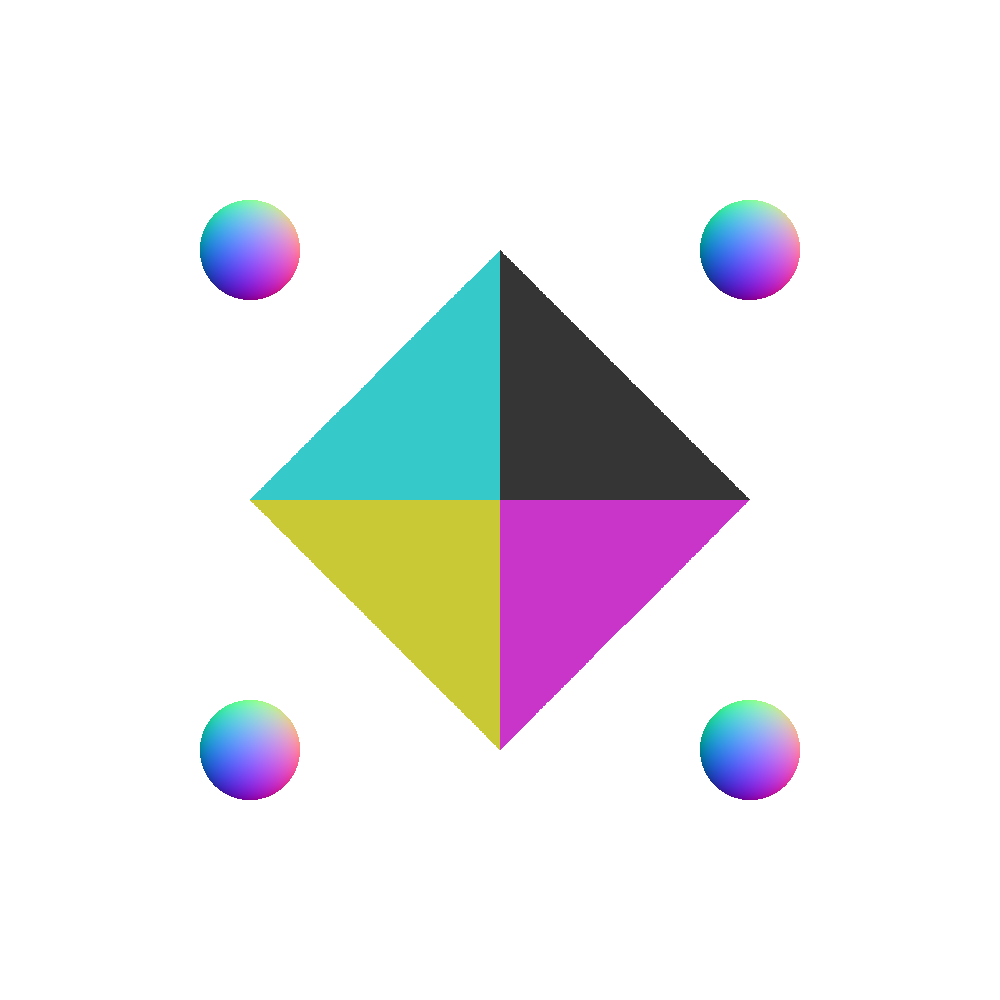
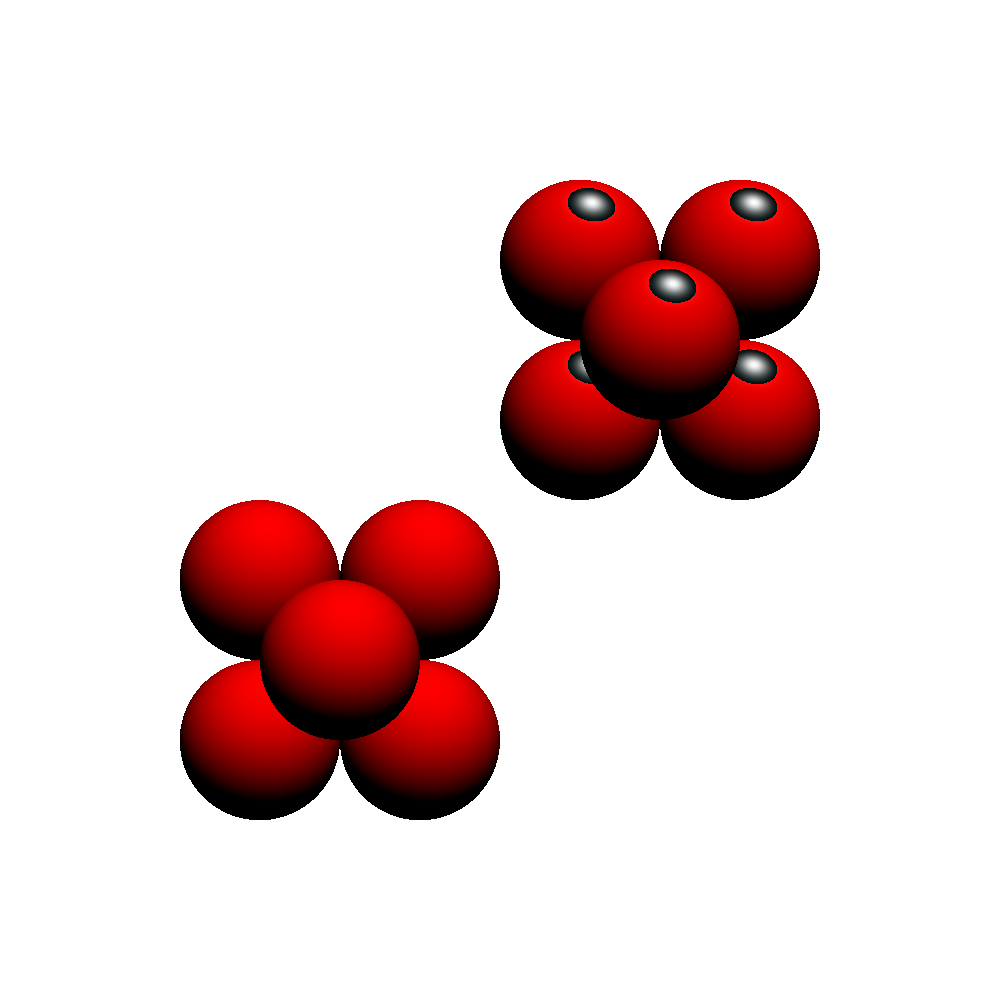
Changes for lambertian and blinn phong

Changed region(s): [[0.155, 0.155, 0.837, 0.837], [0.682, 0.682, 0.806, 0.806], [0.186, 0.186, 0.31, 0.31]]

diff --git a/examples/main.cpp b/examples/main.cpp
@@ -4,7 +4,10 @@
 #include "components/perspectiveCamera.h"
 #include "components/sphere.h"
 #include "components/triangle.h"
-#include "components/shader.h"
+// #include "components/shader.h"
+#include "components/lambert.h"
+#include "components/blinn.h"
+// #include "scene.h"
 
 int main() {
     // point3 origin = {12.3,4.5,1.0};
@@ -23,41 +26,59 @@ int main() {
 
     point3 origin = {0,0,0};
     vec3 view = {0,0,-1};
-    double focallength=1;
+    double focallength = 1;
     Framebuffer fb1(1000,1000);
 
-    point3 center = {-5,-5,-80};
-    point3 center1 = {5,5,-80};
-    point3 center2 = {-5,5,-80};
-    point3 center3 = {5,-5,-80};
+std::vector<std::shared_ptr<Shape>> SphereListLambert;
+std::vector<std::shared_ptr<Shape>> SphereListBlinn;
 
-std::vector<std::shared_ptr<Shape>> SphereList;
-
-SphereList.push_back(std::make_shared<Sphere>(center, 1, color({1.0,0.0,0.0})));
-SphereList.push_back(std::make_shared<Sphere>(center1, 1, color({0.0,1.0,0.0})));
-SphereList.push_back(std::make_shared<Sphere>(center2, 1, color({0.0,0.0,1.0})));
-SphereList.push_back(std::make_shared<Sphere>(center3, 1, color({0.0,0.0,0.0})));
-SphereList.push_back(std::make_shared<Triangle>(point3{0.0,0.0,-75.0}, point3{0,5.0,-80.0}, point3{5.0,0,-80.0},color({1.0,0.0,1.0})));
-SphereList.push_back(std::make_shared<Triangle>(point3{0.0,0.0,-75.0}, point3{0,5.0,-80.0}, point3{-5.0,0,-80.0},color({1.0,0.0,1.0})));
-SphereList.push_back(std::make_shared<Triangle>(point3{0.0,0.0,-75.0}, point3{0,-5.0,-80.0}, point3{5.0,0,-80.0},color({1.0,0.0,1.0})));
-SphereList.push_back(std::make_shared<Triangle>(point3{0.0,0.0,-75.0}, point3{0,-5.0,-80.0}, point3{-5.0,0,-80.0},color({1.0,0.0,1.0})));
+SphereListLambert.push_back(std::make_shared<Sphere>(point3({-6,-6,-100}), 2, color({1.0,0.0,0.0})));
+SphereListLambert.push_back(std::make_shared<Sphere>(point3({-2,-2,-100}), 2, color({0.0,1.0,0.0})));
+SphereListLambert.push_back(std::make_shared<Sphere>(point3({-6,-2,-100}), 2, color({0.0,0.0,1.0})));
+SphereListLambert.push_back(std::make_shared<Sphere>(point3({-2,-6,-100}), 2, color({0.0,0.0,0.0})));
+SphereListLambert.push_back(std::make_shared<Sphere>(point3({-3,-3,-75}), 1.5, color({0.0,0.0,0.0})));
+SphereListBlinn.push_back(std::make_shared<Sphere>(point3({2,2,-100}), 2, color({1.0,0.0,0.0})));
+SphereListBlinn.push_back(std::make_shared<Sphere>(point3({6,6,-100}), 2, color({0.0,1.0,0.0})));
+SphereListBlinn.push_back(std::make_shared<Sphere>(point3({2,6,-100}), 2, color({0.0,0.0,1.0})));
+SphereListBlinn.push_back(std::make_shared<Sphere>(point3({6,2,-100}), 2, color({0.0,0.0,0.0})));
+SphereListBlinn.push_back(std::make_shared<Sphere>(point3({3,3,-75}), 1.5, color({0.0,0.0,0.0})));
+// SphereList.push_back(std::make_shared<Triangle>(point3{0.0,0.0,-75.0}, point3{0,5.0,-70.0}, point3{5.0,0,-70.0},color({0.0,0.0,0.0})));
+// SphereList.push_back(std::make_shared<Triangle>(point3{0.0,0.0,-75.0}, point3{0,5.0,-70.0}, point3{-5.0,0,-70.0},color({0.0,0.0,0.0})));
+// SphereList.push_back(std::make_shared<Triangle>(point3{0.0,0.0,-75.0}, point3{0,-5.0,-70.0}, point3{5.0,0,-70.0},color({0.0,0.0,0.0})));
+// SphereList.push_back(std::make_shared<Triangle>(point3{0.0,0.0,-75.0}, point3{0,-5.0,-70.0}, point3{-5.0,0,-70.0},color({0.0,0.0,0.0})));
 
     PerspectiveCamera pc(origin, view, focallength, fb1.get_width(), fb1.get_height());
 
    
     fb1.clearToColor(color(1.0,1.0,1.0));
     HitStruct hit;
+
+    std::vector<vec3> lightList = {vec3{2.0,10.0,10.0}};
+    Lambert lamb(lightList);
+
+    Blinn blinnPhong(vec3{2.0,10.0,10.0},origin);
+
+    
+
     for(int x = 0; x<fb1.get_width(); ++x) {
         for(int y =0; y<fb1.get_height(); ++y) {
             ray r = pc.generateRay(x,y);
                 double tmin = 1;
                 double tmax = 500.0; 
-           for(auto& iter : SphereList) {
+            for(auto& iter : SphereListLambert) {
                 if(iter->intersect(r,tmin,tmax,hit)==true) {
                     vec3 ray_direction_color = 0.5*(unit_vector(hit.normal) + vec3(1,1,1));
-                    fb1.setPixelColor(x,y,ray_direction_color);
+                    fb1.setPixelColor(x,y,lamb.rayColor(hit));
                     // fb1.setPixelColor(x,y,iter->getColor());
                 }
+            }
+            for(auto& iter : SphereListBlinn) {
+                if(iter->intersect(r,tmin,tmax,hit)==true) {
+                    vec3 ray_direction_color = 0.5*(unit_vector(hit.normal) + vec3(1,1,1));
+                    fb1.setPixelColor(x,y,blinnPhong.rayColor(hit));
+                    // fb1.setPixelColor(x,y,iter->getColor());
+                }
+               
             }
 
         }

diff --git a/src/components/blinn.h b/src/components/blinn.h
@@ -1,0 +1,29 @@
+#pragma
+#include "shader.h"
+#include <vector>
+#include <algorithm>
+
+class Blinn : public Shader {
+    public:
+        Blinn(const point3 light, point3 e) : light(light),view(e) {};
+        
+        color rayColor( const HitStruct &h) override {
+            vec3 n = unit_vector(h.normal);
+            vec3 v = unit_vector(view-h.p);
+            vec3 lDir = unit_vector(light); 
+
+            vec3 hVec = unit_vector(light+v);
+
+            double totalLight = 0.0;
+
+            double phongExp = 64;
+
+            
+            vec3 spec = color({1.0,0.0,0.0})*std::max(0.0, dot(n,lDir)) + color({1.0,1.0,1.0})*std::pow(std::max(0.0,dot(n,hVec)),phongExp);
+            vec3 clampedSpec({std::clamp(spec[0],0.0,1.0),std::clamp(spec[1],0.0,1.0),std::clamp(spec[2],0.0,1.0)});
+            return  clampedSpec; 
+        }
+    private:
+        vec3 light;
+        point3 view;
+};

diff --git a/src/components/scene.h b/src/components/scene.h
@@ -1,10 +1,21 @@
-#pragma once
+// #pragma once
 
-// This should be more of a container than a class...
-// For now.
+// // This should be more of a container than a class...
+// // For now.
 
-class Scene {
-    public:
+// class Scene {
+//     public:
+//         Scene(std::vector<std::shared_ptr<Shape>> shapes) {};
+//         color computeRayColor(const ray &r, double tmin, double tmax) {
+//             HitStruct hit;
+//             double localTmax = tmax;
 
-    private:
-};
+//             bool hitShape = false;
+//             for(int iter = 0; iter < shapes.size(); ++iter) {
+//                 hitShape = true;
+//             }
+//         }
+//     private:
+//         std::vector<std::shared_ptr<Shape>> shapes;
+        
+// };

diff --git a/src/components/lambert.h b/src/components/lambert.h
@@ -1,0 +1,23 @@
+#pragma
+#include "shader.h"
+#include <vector>
+
+class Lambert : public Shader {
+    public:
+        Lambert(const std::vector<vec3>& light) {
+            for(auto& l : light) {
+                lightList.push_back(unit_vector(l));
+            }
+        };
+        
+        color rayColor( const HitStruct &h) override {
+            vec3 n = unit_vector(h.normal);
+            double totalLight = 0.0;
+            for(auto& l : lightList) {
+                totalLight += std::max(0.0, dot(n, l));
+            }
+            return (color(1.0,0.0,0.0)*totalLight);
+        }
+    private:
+        std::vector<vec3> lightList;
+};

diff --git a/src/components/shader.h b/src/components/shader.h
@@ -3,8 +3,8 @@
 #include "shape.h"
 
 class Shader {
-    private:
-        virtual color rayColor( const HitStruct &h) = 0;
     public:
+        virtual color rayColor( const HitStruct &h) = 0;
+    protected:
 
 };
